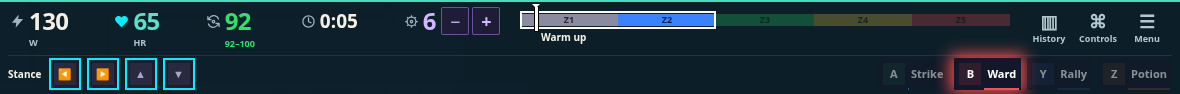
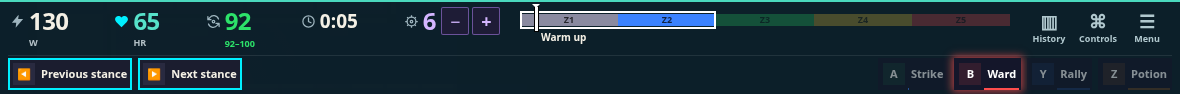
Expose stance and target arrows and free phone label space

Changed region(s): [[0.0, 0.617, 0.2136, 0.9574], [0.7932, 0.4681, 0.8847, 1.0]]

diff --git a/src/games/starfighter/sim/sim.ts b/src/games/starfighter/sim/sim.ts
@@ -601,6 +601,7 @@ export function createSfSim(ctx: GameContext, opts: SfOpts = {}): GameSim {
         ...(cadence ? { targetCadence: { min: cadence.min, max: cadence.max, label: 'Optional rapid fire' } } : {}),
         controls: menu ? [{ button: 'dpad', label: 'Craft' }, { button: 'a', label: 'Launch' }] : [
           ...(craft === 'cruiser' ? [{ button: 'shiftersL' as const, label: 'Gears' }, { button: 'shiftersR' as const, label: 'Gears' }] : []),
+          { button: 'left', label: 'Previous target' }, { button: 'right', label: 'Next target' },
           { button: 'paddles', label: 'Target ◀ ▶' }, { button: 'b', label: 'Release', active: locks.length > 0 }, { button: 'z', label: 'Elite' }, { button: 'a', label: 'Nova', active: charge >= 100 }] };
     },
     summary: () => ({ score: Math.round(score), kills, bossesDefeated: bosses, bossesEscaped: escaped, sector, sectorsCleared: bosses, deaths, maxCombo, scrap: salvage, powerUps: gunLevel - 1, gunLevel, onTargetS: Math.round(onTargetS), craft, volleys, dodges, grazes: grazed, absorbed, perfects, clearPct: clearTotal ? Math.round(clearKilled / clearTotal * 100) : 0, clearKilled, clearTotal, formations, bulletsFired, groundKills, goldens: gunLevel - 1, craftLevel: levelOf(craft), eaten, elitesCleared: eliteCleared, elitesSeen: eliteSeen, grades: grades.join(''), bestGrade: ['S', 'A', 'B', 'C', 'D'].find(g => grades.includes(g)) ?? '' }),

diff --git a/src/shell/hud/compactGames.test.ts b/src/shell/hud/compactGames.test.ts
@@ -23,6 +23,7 @@ it('preserves every mapped button and game-specific shifter across all eight gam
         if (cluster.kind === 'dpad') expect(actual.every(b => ['left','right','up','down'].includes(b.id))).toBe(true);
         if (cluster.kind === 'face') expect(actual.every(b => ['a','b','y','z'].includes(b.id))).toBe(true);
       }
+      if (playing && ['cadenza','watershed','starfighter','dungeon'].includes(game.id)) expect(compactButtons(pad.left.stick).map(b => b.id)).toEqual(['left','right']);
       if (hud.controls?.some(h => h.button === 'paddles')) expect(pad.left.paddle.mapped).toBe(true);
       if (game.id === 'cadenza' && playing) expect(compactButtons(pad.right.stick).map(b => [b.id, b.label])).toEqual([['z','Left'],['a','Right']]);
     } finally { s.sim.dispose?.(); }

diff --git a/src/games/dungeon/sim/sim.ts b/src/games/dungeon/sim/sim.ts
@@ -1493,7 +1493,7 @@ export function createDungeonSim(ctx: GameContext, opts?: DungeonOpts): GameSim 
           return { button: ACTION_BUTTON[id], label: ACTION_LABEL[id], active: ready && usable,
             cooldown: { fill: readyFrac(cds[id]), ready, tint: effortTint(ctx.bike().powerZone), flourish: effortFlourish(ctx.bike().powerZone) } };
         }),
-        { button: 'dpad', label: 'Stance', active: true },
+        { button: 'left', label: 'Previous stance', active: true }, { button: 'right', label: 'Next stance', active: true },
         { button: 'shiftersL', label: 'Gear' },
         { button: 'shiftersR', label: 'Gear' },
       ],

diff --git a/src/shell/hud/ribbon.css b/src/shell/hud/ribbon.css
@@ -80,3 +80,5 @@
 }
 /* Full action copy may grow the row; never let wrapped text escape its key. */
 .hud-ribbon .compact-key { height:auto; }
+
+@media(max-width:599px){.hud-ribbon .compact-hood:has(.compact-family.dpad) .compact-paddles{display:none}}

diff --git a/src/shell/hud/NOTES.md b/src/shell/hud/NOTES.md
@@ -2,7 +2,7 @@
 
 - One instrument row, then a linear control row. Directions stay on the left, face actions on the right; custom shifter actions and analog paddle hints keep separate labels. No circular diamonds in the permanent overlay.
 - Default family order: left/right, up/down; face A/B/Y/Z; shifter minus/plus. `ControlHint.displayOrder` can override order within a family for semantic pairs. Cadenza explicitly shows Z Left then A Right. It cannot mix arrow and face families.
-- Build from the live `GameHud.controls`, not a TD-specific list. All eight games' menu/play models are checked. Inactive actions retain their place, full names, state and cooldown. Merged D-pad/shifter hints get one caption and individual keys; separately mapped arrows keep separate labels. Cadenza/Watershed advertise only their used left/right steering arrows in play; menus retain full navigation.
+- Build from the live `GameHud.controls`, not a TD-specific list. All eight games' menu/play models are checked. Inactive actions retain their place, full names, state and cooldown. Merged D-pad/shifter hints get one caption and individual keys; separately mapped arrows keep separate labels. Cadenza, Watershed, Dungeon and Squadron advertise their used left/right arrows in play; menus retain full navigation.
 - `legendOn` is the persisted Controller/Touch layout choice. Touch uses curated `GameHud.touchControls` where provided; otherwise it retains the game's full mapping. Named shifter actions remain accessible. Gears are shown once, beside their metric, and yield to the commanded ERG/SIM/resistance reading when not available.
 - Keep zone source/threshold logic in `zoneMath`: power-judged efforts force power; missing HR has no current marker. Current numbers, target band, current marker and cadence direction/range stay visible.
 - History collection spans lobby/game/lobby and continues while hidden. History has its own hover/focus/tap target, Pin/Close, outside dismissal and Escape. Pause → History gives controller access without stealing an existing game button. Menu is a separate button; instrument taps no longer pause the game.
@@ -11,3 +11,5 @@
 - `HudLayer` paints the first sample immediately and measures in a layout effect, then updates readings at 10 Hz. The ribbon has natural responsive height; ResizeObserver publishes its full measured size including borders, wrapping and safe-area padding. `readHudInsets` treats H1 as one opaque occupied rectangle. Peeks are siblings and never change this inset.
 - Pointer holds reuse `PadKey`'s original semantic down/up/cancel handling, captured quote/epoch, and cancellation on lost capture, drag, blur, mapping changes and pause. Only presentation changes.
 - Targeted shell/HUD tests, all-game viewport checks (`scripts/check-compact-hud.mjs`) and TD touch/hold checks (`scripts/towerdefense-hud-smoke.mjs`) cover the implementation. Native iPad/Bluefy and physical Ride-controller checks remain a device validation step.
+
+- On phones, redundant analog paddle hints move into the guide when directional buttons already provide that action, leaving more width for full arrow labels.

diff --git a/docs/visual-polish/hud/README.md b/docs/visual-polish/hud/README.md
@@ -1,6 +1,6 @@
 # Compact H1 live HUD
 
-The shared HUD now uses linear controls grouped by function and hand. Directions are together on the left, face actions on the right. The default face order is A/B/Y/Z; Cadenza explicitly orders its opposing lane controls Z Left / A Right. Per-game shifter actions and analog paddle hints keep separate groups. Steering-only games advertise left/right in play and retain full navigation in menus. Inactive controls retain their positions, full labels and cooldowns.
+The shared HUD now uses linear controls grouped by function and hand. Directions are together on the left, face actions on the right. The default face order is A/B/Y/Z; Cadenza explicitly orders its opposing lane controls Z Left / A Right. Per-game shifter actions and analog paddle hints keep separate groups. Steering, targeting and stance controls advertise their used left/right arrows in play and retain full navigation in menus. Inactive controls retain their positions, full labels and cooldowns.
 
 History and the physical controller guide open above the ribbon without increasing its reserved height. Controller users can open history through Pause → History. The guide shows physical letters and all current mappings. Fake-bike keyboard instructions live in Pause and the guide; they never occupy the HUD band. Menu has its own hit target.
 
